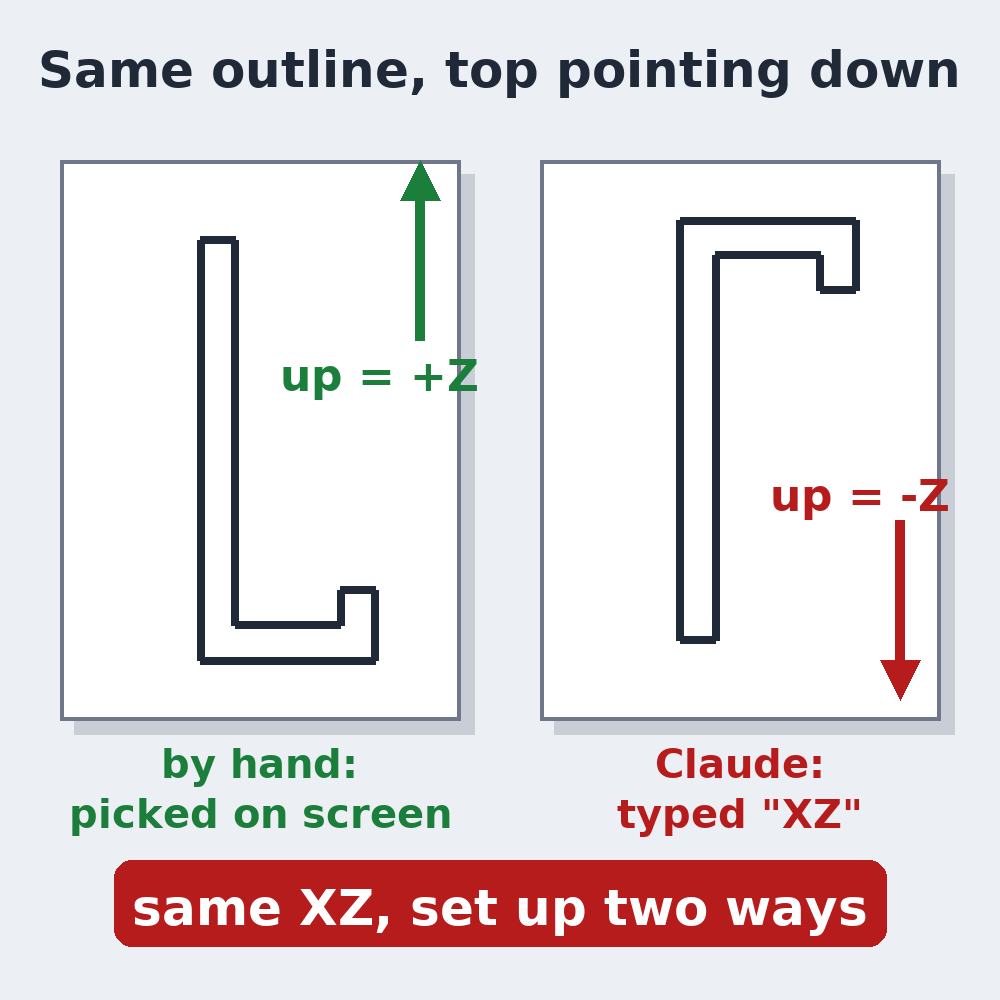
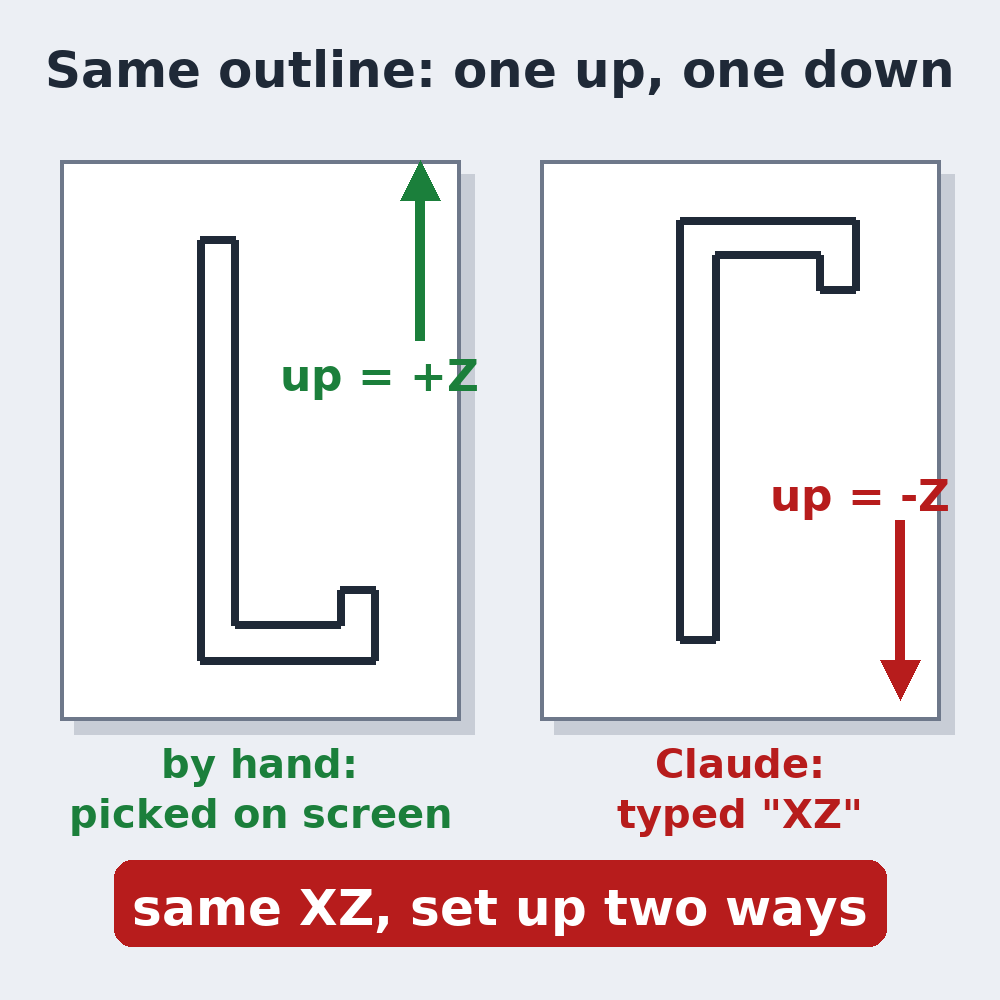
Lesson 2 Short why card: 'Same outline: one up, one down'

Changed region(s): [[0.031, 0.031, 0.961, 0.093]]

diff --git a/video/draw2.py b/video/draw2.py
@@ -309,7 +309,7 @@ def short_assets():
     chip(d, (745, 905), 'hangs down', 52, anchor='m', bg=RED)
     save(im, 'sc2s-both.png')
     im, d = canvas(1000, 1000)
-    text(d, (500, 40), 'Same outline, top pointing down', 50, anchor='ma')
+    text(d, (500, 40), 'Same outline: one up, one down', 50, anchor='ma')
     for i, (label, flip, col) in enumerate((('by hand: picked on screen', False, GREEN), ('Claude: typed "XZ"', True, RED))):
         x0 = 60 + i * 480
         sheet(d, (x0, 160, x0 + 400, 720))
